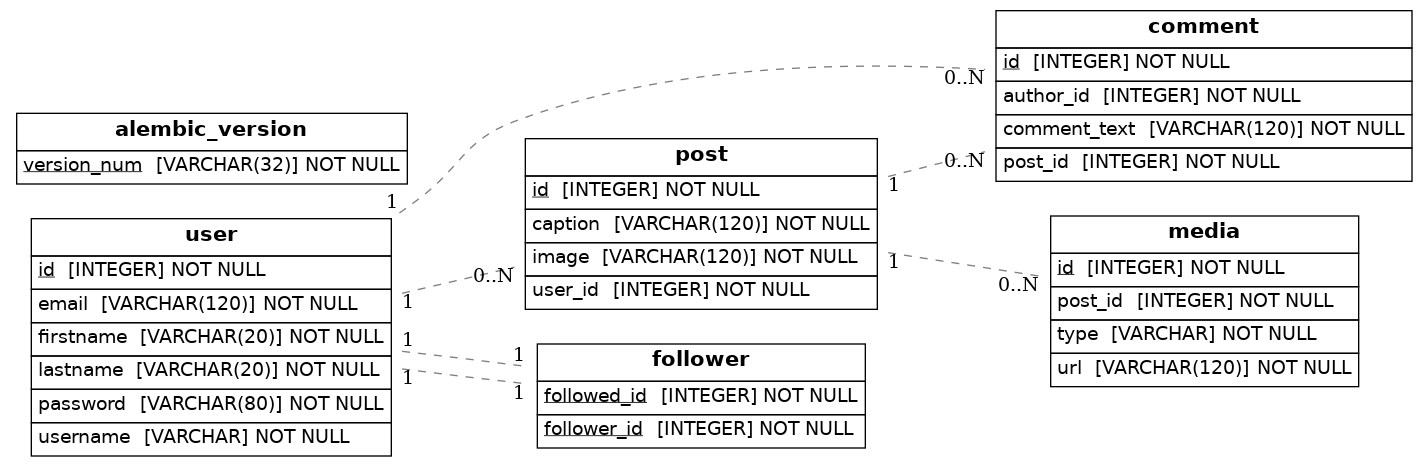
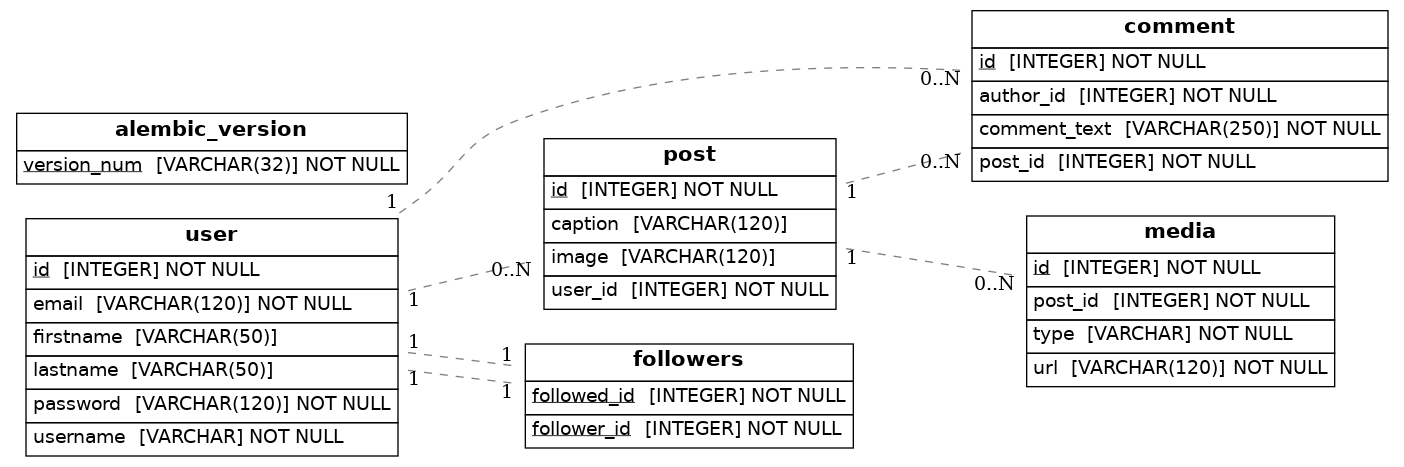
Commit final tras mejoras

diff --git a/src/models.py b/src/models.py
@@ -1,4 +1,4 @@
-from typing import List
+from typing import List, Optional
 from flask_sqlalchemy import SQLAlchemy
 from sqlalchemy import String, ForeignKey
 from sqlalchemy.orm import Mapped, mapped_column, relationship
@@ -6,48 +6,92 @@ from sqlalchemy.orm import Mapped, mapped_column, relationship
 db = SQLAlchemy()
 
 class User(db.Model):
+    __tablename__ = "user"
     id: Mapped[int] = mapped_column(primary_key=True)
-    username: Mapped[str] = mapped_column(String(20), unique=True, nullable=False)
-    firstname: Mapped[str] = mapped_column(String(20))
-    lastname: Mapped[str] = mapped_column(String(20))
+    username: Mapped[str] = mapped_column(String(50), unique=True, nullable=False)
+    firstname: Mapped[Optional[str]] = mapped_column(String(50), nullable=True)
+    lastname: Mapped[Optional[str]] = mapped_column(String(50), nullable=True)
     email: Mapped[str] = mapped_column(String(120), unique=True, nullable=False)
-    password: Mapped[str] = mapped_column(nullable=False)
+    password: Mapped[str] = mapped_column(String(120), nullable=False)
 
-    posts: Mapped[List["Post"]] = relationship(back_populates="user")
-    comments: Mapped[List["Comment"]] = relationship(back_populates="author")
+    posts: Mapped[List["Post"]] = relationship(back_populates="user", cascade="all, delete-orphan")
+    comments: Mapped[List["Comment"]] = relationship(back_populates="author", cascade="all, delete-orphan")
     followers: Mapped[List["Follower"]] = relationship("Follower", back_populates="followed", foreign_keys="[Follower.followed_id]")
     following: Mapped[List["Follower"]] = relationship("Follower", back_populates="follower", foreign_keys="[Follower.follower_id]")
 
+    def serialize(self):
+        return {
+            "id": self.id,
+            "username": self.username,
+            "firstname": self.firstname,
+            "lastname": self.lastname,
+            "email": self.email,
+        }
+
 class Post(db.Model):
+    __tablename__ = "post"
     id: Mapped[int] = mapped_column(primary_key=True)
     user_id: Mapped[int] = mapped_column(ForeignKey("user.id"), nullable=False)
-    image: Mapped[str] = mapped_column(String(120))
-    caption: Mapped[str] = mapped_column(String(120))
+    image: Mapped[Optional[str]] = mapped_column(String(120), nullable=True)
+    caption: Mapped[Optional[str]] = mapped_column(String(120), nullable=True)
     
     user: Mapped["User"] = relationship(back_populates="posts")
-    comments: Mapped[List["Comment"]] = relationship(back_populates="post")
-    media_items: Mapped[List["Media"]] = relationship(back_populates="post")
+    comments: Mapped[List["Comment"]] = relationship(back_populates="post", cascade="all, delete-orphan")
+    media_items: Mapped[List["Media"]] = relationship(back_populates="post", cascade="all, delete-orphan")
+
+    def serialize(self):
+        return {
+            "id": self.id,
+            "user_id": self.user_id,
+            "image": self.image,
+            "caption": self.caption
+        }
     
 class Comment(db.Model):
+    __tablename__ = "comment"
     id: Mapped[int] = mapped_column(primary_key=True)
-    comment_text: Mapped[str] = mapped_column(String(120))
+    comment_text: Mapped[str] = mapped_column(String(250))
     author_id: Mapped[int] = mapped_column(ForeignKey("user.id"), nullable=False)
     post_id: Mapped[int] = mapped_column(ForeignKey("post.id"), nullable=False)
     
     author: Mapped["User"] = relationship(back_populates="comments")
     post: Mapped["Post"] = relationship(back_populates="comments")
+
+    def serialize(self):
+        return {
+            "id": self.id,
+            "comment_text": self.comment_text,
+            "author_id": self.author_id,
+            "post_id": self.post_id
+        }
     
 class Media(db.Model):
+    __tablename__ = "media"
     id: Mapped[int] = mapped_column(primary_key=True)
-    type: Mapped[str] = mapped_column(String(20))
+    type: Mapped[str] = mapped_column(String(50))
     url: Mapped[str] = mapped_column(String(120))
     post_id: Mapped[int] = mapped_column(ForeignKey("post.id"), nullable=False)
     
     post: Mapped["Post"] = relationship(back_populates="media_items")
 
+    def serialize(self):
+        return {
+            "id": self.id,
+            "type": self.type,
+            "url": self.url,
+            "post_id": self.post_id
+        }
+
 class Follower(db.Model):
+    __tablename__ = "followers"
     follower_id: Mapped[int] = mapped_column(ForeignKey("user.id"), primary_key=True)
     followed_id: Mapped[int] = mapped_column(ForeignKey("user.id"), primary_key=True)
     
     follower: Mapped["User"] = relationship("User", back_populates="following", foreign_keys=[follower_id])
     followed: Mapped["User"] = relationship("User", back_populates="followers", foreign_keys=[followed_id])
+
+    def serialize(self):
+        return {
+            "follower_id": self.follower_id,
+            "followed_id": self.followed_id
+        }

diff --git a/migrations/versions/0fb5e326fdd1_.py b/migrations/versions/0fb5e326fdd1_.py
@@ -1,0 +1,82 @@
+"""empty message
+
+Revision ID: 0fb5e326fdd1
+Revises: db1f132baaed
+Create Date: 2025-08-12 17:08:30.256077
+
+"""
+from alembic import op
+import sqlalchemy as sa
+
+
+# revision identifiers, used by Alembic.
+revision = '0fb5e326fdd1'
+down_revision = 'db1f132baaed'
+branch_labels = None
+depends_on = None
+
+
+def upgrade():
+    # ### commands auto generated by Alembic - please adjust! ###
+    op.create_table('followers',
+    sa.Column('follower_id', sa.Integer(), nullable=False),
+    sa.Column('followed_id', sa.Integer(), nullable=False),
+    sa.ForeignKeyConstraint(['followed_id'], ['user.id'], ),
+    sa.ForeignKeyConstraint(['follower_id'], ['user.id'], ),
+    sa.PrimaryKeyConstraint('follower_id', 'followed_id')
+    )
+    op.drop_table('follower')
+    with op.batch_alter_table('comment', schema=None) as batch_op:
+        batch_op.alter_column('comment_text',
+               existing_type=sa.VARCHAR(length=120),
+               type_=sa.String(length=250),
+               existing_nullable=False)
+
+    with op.batch_alter_table('user', schema=None) as batch_op:
+        batch_op.alter_column('firstname',
+               existing_type=sa.VARCHAR(length=20),
+               type_=sa.String(length=50),
+               nullable=True)
+        batch_op.alter_column('lastname',
+               existing_type=sa.VARCHAR(length=20),
+               type_=sa.String(length=50),
+               nullable=True)
+        batch_op.alter_column('password',
+               existing_type=sa.VARCHAR(length=80),
+               type_=sa.String(length=120),
+               existing_nullable=False)
+
+    # ### end Alembic commands ###
+
+
+def downgrade():
+    # ### commands auto generated by Alembic - please adjust! ###
+    with op.batch_alter_table('user', schema=None) as batch_op:
+        batch_op.alter_column('password',
+               existing_type=sa.String(length=120),
+               type_=sa.VARCHAR(length=80),
+               existing_nullable=False)
+        batch_op.alter_column('lastname',
+               existing_type=sa.String(length=50),
+               type_=sa.VARCHAR(length=20),
+               nullable=False)
+        batch_op.alter_column('firstname',
+               existing_type=sa.String(length=50),
+               type_=sa.VARCHAR(length=20),
+               nullable=False)
+
+    with op.batch_alter_table('comment', schema=None) as batch_op:
+        batch_op.alter_column('comment_text',
+               existing_type=sa.String(length=250),
+               type_=sa.VARCHAR(length=120),
+               existing_nullable=False)
+
+    op.create_table('follower',
+    sa.Column('follower_id', sa.INTEGER(), autoincrement=False, nullable=False),
+    sa.Column('followed_id', sa.INTEGER(), autoincrement=False, nullable=False),
+    sa.ForeignKeyConstraint(['followed_id'], ['user.id'], name='follower_followed_id_fkey'),
+    sa.ForeignKeyConstraint(['follower_id'], ['user.id'], name='follower_follower_id_fkey'),
+    sa.PrimaryKeyConstraint('follower_id', 'followed_id', name='follower_pkey')
+    )
+    op.drop_table('followers')
+    # ### end Alembic commands ###

diff --git a/migrations/versions/db1f132baaed_.py b/migrations/versions/db1f132baaed_.py
@@ -1,0 +1,42 @@
+"""empty message
+
+Revision ID: db1f132baaed
+Revises: ef9e33668701
+Create Date: 2025-08-12 17:01:05.954351
+
+"""
+from alembic import op
+import sqlalchemy as sa
+
+
+# revision identifiers, used by Alembic.
+revision = 'db1f132baaed'
+down_revision = 'ef9e33668701'
+branch_labels = None
+depends_on = None
+
+
+def upgrade():
+    # ### commands auto generated by Alembic - please adjust! ###
+    with op.batch_alter_table('post', schema=None) as batch_op:
+        batch_op.alter_column('image',
+               existing_type=sa.VARCHAR(length=120),
+               nullable=True)
+        batch_op.alter_column('caption',
+               existing_type=sa.VARCHAR(length=120),
+               nullable=True)
+
+    # ### end Alembic commands ###
+
+
+def downgrade():
+    # ### commands auto generated by Alembic - please adjust! ###
+    with op.batch_alter_table('post', schema=None) as batch_op:
+        batch_op.alter_column('caption',
+               existing_type=sa.VARCHAR(length=120),
+               nullable=False)
+        batch_op.alter_column('image',
+               existing_type=sa.VARCHAR(length=120),
+               nullable=False)
+
+    # ### end Alembic commands ###
